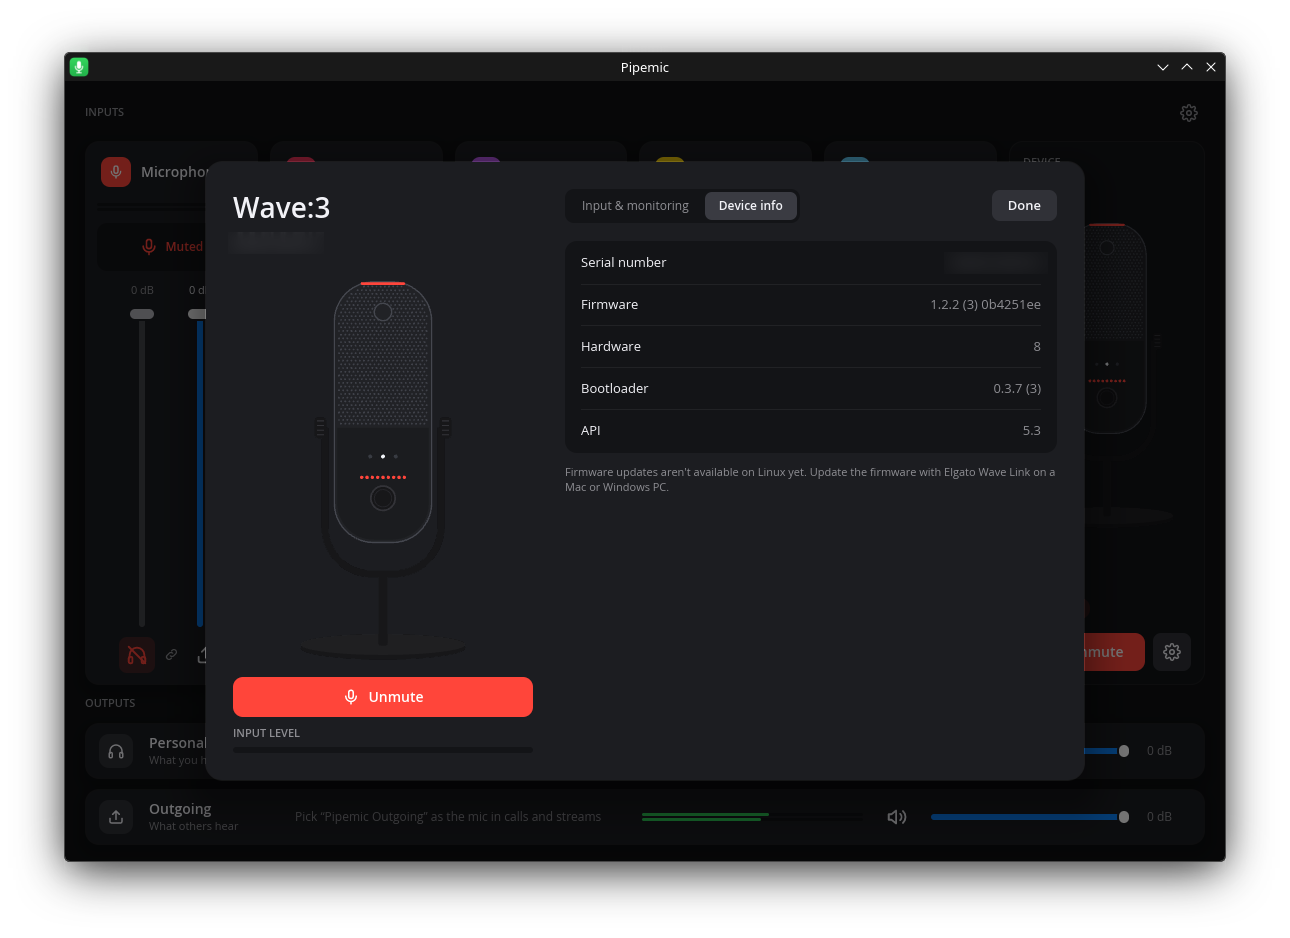
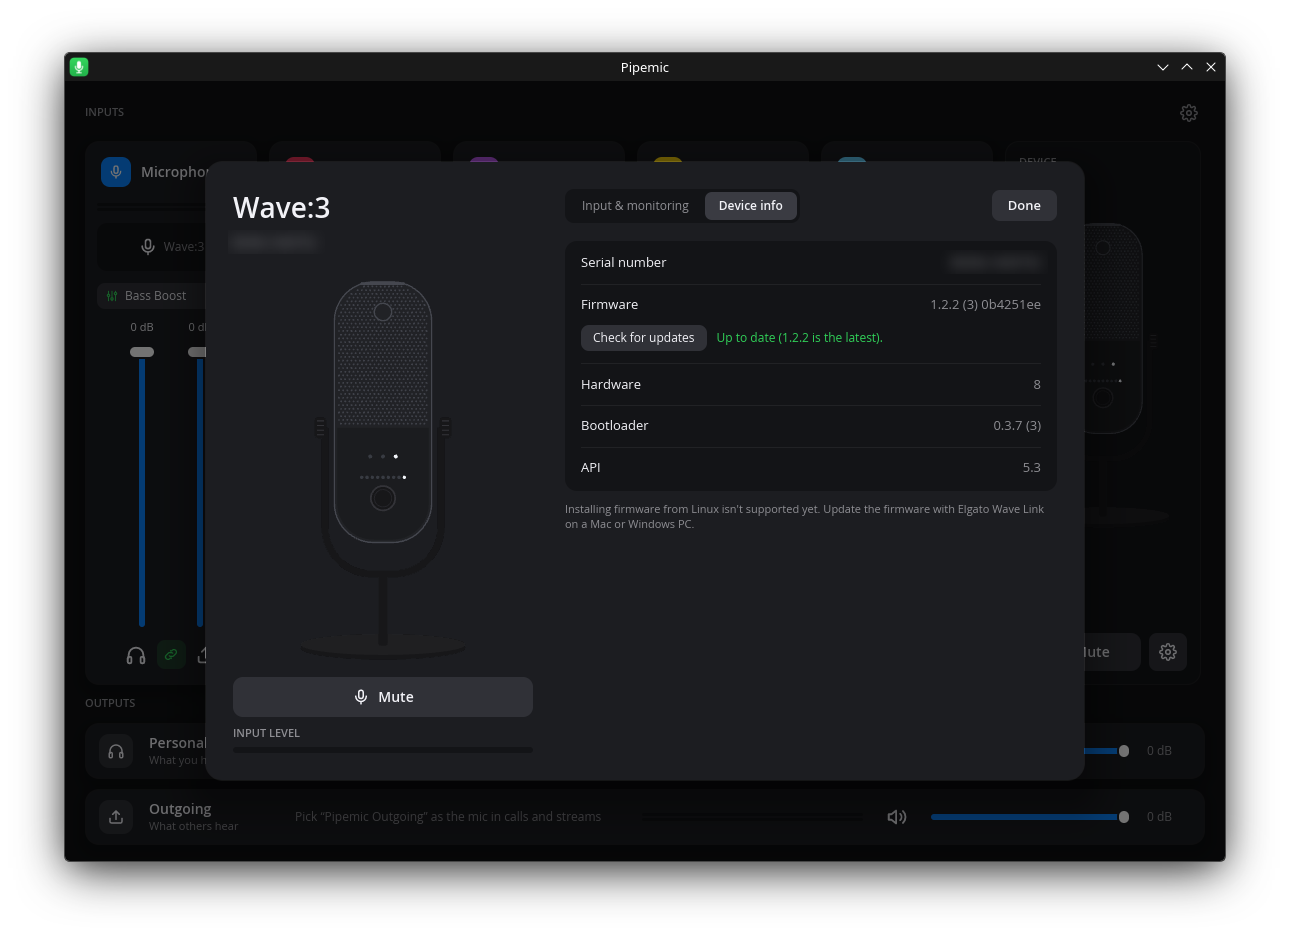
README: new screenshots (serials blurred), effects and updates

diff --git a/README.md b/README.md
@@ -27,15 +27,23 @@ workflow to Linux:
   Elgato's catalog. Installing an update still needs Wave Link on Mac or Windows.
 - **Live meters** for every channel and both mixes, a per-channel fader link,
   and an output picker for your headphones or speakers.
+- **Effects per channel:** Elgato's EQ presets from the marketplace. Sign in
+  with your Elgato account and free presets install in one click; presets you
+  download yourself are picked up from your Downloads folder.
+- **Updates and tray:** Pipemic checks for new versions and updates itself.
+  Closing the window keeps it mixing in the tray; *Quit* stops it and your
+  apps go back to the default speakers and mic.
 
 ## Screenshots
 
 | | |
 |---|---|
-| ![Mixer with the mic muted](docs/screenshots/mixer-muted.png) | ![Wave:3 input and monitoring settings](docs/screenshots/mic-settings.png) |
-| Mic muted: the channel, the mic art and the button all follow the mic. | Gain, low cut, Clipguard, headphone volume, monitor mix and the knob mode. |
-| ![Wave:3 device info](docs/screenshots/device-info.png) | |
-| Device info: firmware, hardware and bootloader versions. | |
+| ![Wave:3 input and monitoring settings](docs/screenshots/mic-settings.png) | ![Wave:3 device info](docs/screenshots/device-info.png) |
+| Gain, low cut, Clipguard, headphone volume, monitor mix and the knob mode. Muted, the channel, the mic art and the button all turn red. | Device info: firmware (checked against Elgato's catalog), hardware and bootloader versions. |
+| ![Effects on a channel](docs/screenshots/effects.png) | ![Apps in a channel](docs/screenshots/apps.png) |
+| Effects: the channel's EQ, your presets, and Elgato's marketplace presets. | Apps in a channel: automatic ones can be switched off, any app can be moved in. |
+| ![Preferences](docs/screenshots/preferences.png) | ![Preferences with an update](docs/screenshots/preferences-update.png) |
+| Preferences: updates, open at login, output fallback. | When an update is available, one click installs it. |
 
 ## Supported hardware
 
